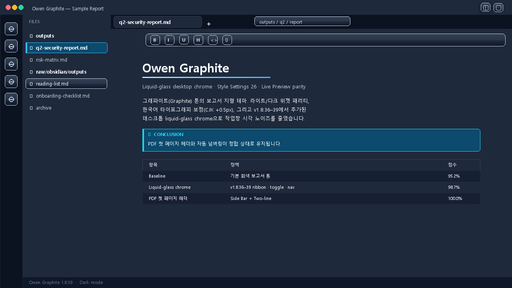
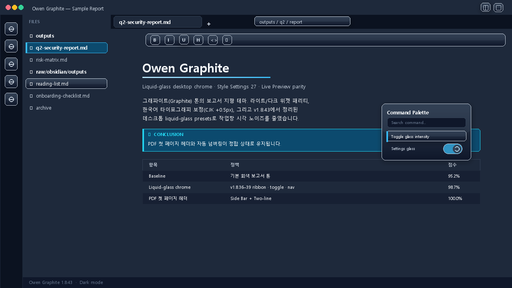
Release 1.8.43

Changed region(s): [[0.7188, 0.3438, 0.9375, 0.5625], [0.375, 0.375, 0.5938, 0.4375]]

diff --git a/theme.css b/theme.css
@@ -169,6 +169,28 @@ settings:
     type: class-toggle
     default: false
   -
+    id: ogd-glass-intensity
+    title: 데스크톱 Glass 강도
+    description: 데스크톱 UI chrome의 투명 유리/그림자 강도를 조정합니다. Reduced는 blur를 줄여 배터리와 저성능 환경에 적합합니다.
+    type: class-select
+    default: ogd-glass-standard
+    options:
+      -
+        label: Off
+        value: ogd-glass-off
+      -
+        label: Reduced
+        value: ogd-glass-reduced
+      -
+        label: Subtle
+        value: ogd-glass-subtle
+      -
+        label: Standard
+        value: ogd-glass-standard
+      -
+        label: Strong
+        value: ogd-glass-strong
+  -
     id: ogd-cjk-boost
     title: 한글/CJK 폰트 +0.5px 자동 보정
     type: class-toggle
@@ -6702,5 +6724,167 @@ body.ogd-report-mode .markdown-rendered > h2:first-of-type::after {
 
   body:not(.is-mobile).theme-dark .status-bar .status-bar-item-segment:hover {
     box-shadow: 0 4px 12px rgba(0, 0, 0, 0.24) !important;
+  }
+}
+
+/* v1.8.43 - User-selectable glass intensity, plugin polish, and print isolation. */
+@media (min-width: 701px) {
+  body:not(.is-mobile) {
+    --ogd-glass-filter: blur(18px) saturate(160%);
+    --ogd-glass-filter-soft: blur(12px) saturate(145%);
+    --ogd-glass-filter-control: blur(10px) saturate(135%);
+  }
+
+  body:not(.is-mobile).ogd-glass-off,
+  body:not(.is-mobile).ogd-glass-reduced {
+    --ogd-glass-filter: none;
+    --ogd-glass-filter-soft: none;
+    --ogd-glass-filter-control: none;
+  }
+
+  body:not(.is-mobile).ogd-glass-off {
+    --ogd-glass-bg: var(--background-primary) !important;
+    --ogd-glass-bg-strong: var(--background-primary) !important;
+    --ogd-glass-bg-hover: var(--background-modifier-hover) !important;
+    --ogd-glass-border: var(--background-modifier-border) !important;
+    --ogd-glass-border-hover: var(--background-modifier-border-hover) !important;
+    --ogd-glass-shadow: none !important;
+    --ogd-glass-shadow-hover: none !important;
+  }
+
+  body:not(.is-mobile).ogd-glass-reduced {
+    --ogd-glass-bg: linear-gradient(180deg, rgba(255, 255, 255, 0.92), rgba(248, 250, 252, 0.82)) !important;
+    --ogd-glass-bg-strong: linear-gradient(180deg, rgba(255, 255, 255, 0.96), rgba(248, 250, 252, 0.90)) !important;
+    --ogd-glass-bg-hover: linear-gradient(180deg, rgba(255, 255, 255, 0.98), rgba(241, 245, 249, 0.88)) !important;
+    --ogd-glass-shadow: 0 2px 8px rgba(15, 23, 42, 0.08) !important;
+    --ogd-glass-shadow-hover: 0 3px 10px rgba(15, 23, 42, 0.10) !important;
+  }
+
+  body:not(.is-mobile).ogd-glass-subtle {
+    --ogd-glass-filter: blur(10px) saturate(130%);
+    --ogd-glass-filter-soft: blur(8px) saturate(125%);
+    --ogd-glass-filter-control: blur(6px) saturate(120%);
+    --ogd-glass-bg: linear-gradient(180deg, rgba(255, 255, 255, 0.82), rgba(248, 250, 252, 0.62)) !important;
+    --ogd-glass-bg-strong: linear-gradient(180deg, rgba(255, 255, 255, 0.88), rgba(248, 250, 252, 0.72)) !important;
+    --ogd-glass-bg-hover: linear-gradient(180deg, rgba(255, 255, 255, 0.90), rgba(241, 245, 249, 0.68)) !important;
+    --ogd-glass-shadow: inset 0 1px 0 rgba(255, 255, 255, 0.78), 0 8px 20px rgba(15, 23, 42, 0.10) !important;
+    --ogd-glass-shadow-hover: inset 0 1px 0 rgba(255, 255, 255, 0.86), 0 4px 12px rgba(15, 23, 42, 0.10) !important;
+  }
+
+  body:not(.is-mobile).ogd-glass-strong {
+    --ogd-glass-filter: blur(24px) saturate(180%);
+    --ogd-glass-filter-soft: blur(16px) saturate(160%);
+    --ogd-glass-filter-control: blur(12px) saturate(145%);
+    --ogd-glass-bg: linear-gradient(180deg, rgba(255, 255, 255, 0.82), rgba(226, 232, 240, 0.46)) !important;
+    --ogd-glass-bg-strong: linear-gradient(180deg, rgba(255, 255, 255, 0.90), rgba(241, 245, 249, 0.56)) !important;
+    --ogd-glass-bg-hover: linear-gradient(180deg, rgba(255, 255, 255, 0.96), rgba(224, 242, 254, 0.58)) !important;
+    --ogd-glass-border: rgba(148, 163, 184, 0.30) !important;
+    --ogd-glass-border-hover: rgba(14, 165, 233, 0.34) !important;
+    --ogd-glass-shadow: inset 0 1px 0 rgba(255, 255, 255, 0.94), inset 0 -1px 0 rgba(148, 163, 184, 0.18), 0 18px 40px rgba(15, 23, 42, 0.18), 0 6px 16px rgba(15, 23, 42, 0.10) !important;
+    --ogd-glass-shadow-hover: inset 0 1px 0 rgba(255, 255, 255, 0.98), 0 8px 22px rgba(15, 23, 42, 0.16) !important;
+  }
+
+  body:not(.is-mobile).theme-dark.ogd-glass-reduced {
+    --ogd-glass-bg: linear-gradient(180deg, rgba(30, 41, 59, 0.86), rgba(15, 23, 42, 0.78)) !important;
+    --ogd-glass-bg-strong: linear-gradient(180deg, rgba(30, 41, 59, 0.92), rgba(15, 23, 42, 0.84)) !important;
+    --ogd-glass-bg-hover: linear-gradient(180deg, rgba(51, 65, 85, 0.84), rgba(30, 41, 59, 0.74)) !important;
+    --ogd-glass-shadow: 0 2px 8px rgba(0, 0, 0, 0.26) !important;
+    --ogd-glass-shadow-hover: 0 3px 10px rgba(0, 0, 0, 0.30) !important;
+  }
+
+  body:not(.is-mobile).theme-dark.ogd-glass-subtle {
+    --ogd-glass-bg: linear-gradient(180deg, rgba(30, 41, 59, 0.74), rgba(15, 23, 42, 0.62)) !important;
+    --ogd-glass-bg-strong: linear-gradient(180deg, rgba(30, 41, 59, 0.82), rgba(15, 23, 42, 0.70)) !important;
+    --ogd-glass-bg-hover: linear-gradient(180deg, rgba(51, 65, 85, 0.72), rgba(15, 23, 42, 0.54)) !important;
+    --ogd-glass-shadow: inset 0 1px 0 rgba(255, 255, 255, 0.07), 0 8px 20px rgba(0, 0, 0, 0.34) !important;
+    --ogd-glass-shadow-hover: inset 0 1px 0 rgba(255, 255, 255, 0.09), 0 4px 12px rgba(0, 0, 0, 0.28) !important;
+  }
+
+  body:not(.is-mobile).theme-dark.ogd-glass-strong {
+    --ogd-glass-bg: linear-gradient(180deg, rgba(30, 41, 59, 0.76), rgba(2, 6, 23, 0.54)) !important;
+    --ogd-glass-bg-strong: linear-gradient(180deg, rgba(51, 65, 85, 0.84), rgba(15, 23, 42, 0.62)) !important;
+    --ogd-glass-bg-hover: linear-gradient(180deg, rgba(51, 65, 85, 0.82), rgba(12, 74, 110, 0.40)) !important;
+    --ogd-glass-border: rgba(203, 213, 225, 0.22) !important;
+    --ogd-glass-border-hover: rgba(56, 189, 248, 0.30) !important;
+    --ogd-glass-shadow: inset 0 1px 0 rgba(255, 255, 255, 0.11), inset 0 -1px 0 rgba(0, 0, 0, 0.38), 0 18px 42px rgba(0, 0, 0, 0.52), 0 6px 16px rgba(0, 0, 0, 0.34) !important;
+    --ogd-glass-shadow-hover: inset 0 1px 0 rgba(255, 255, 255, 0.14), 0 8px 24px rgba(0, 0, 0, 0.38) !important;
+  }
+
+  body:not(.is-mobile) :is(.prompt, .modal, .popover.hover-popover, .notice, .notice-container .notice, .editingToolbarModalBar, .editingToolbarPopover, .editingToolbarPopoverItems, .editingToolbarSubmenu, .editingToolbarMenu) {
+    -webkit-backdrop-filter: var(--ogd-glass-filter) !important;
+    backdrop-filter: var(--ogd-glass-filter) !important;
+  }
+
+  body:not(.is-mobile) :is(.prompt-results .suggestion-item, .modal .suggestion-item, .popover.hover-popover .suggestion-item, .modal.mod-settings .setting-item, .metadata-container .metadata-property, .canvas-control-item, .canvas-card-menu .clickable-icon, .status-bar .status-bar-item-segment):is(:hover, :focus, :focus-within, :active, .is-selected, .selected, [aria-selected="true"]) {
+    -webkit-backdrop-filter: var(--ogd-glass-filter-soft) !important;
+    backdrop-filter: var(--ogd-glass-filter-soft) !important;
+  }
+
+  body:not(.is-mobile) .setting-item-control :is(input[type="text"], input[type="number"], input[type="search"], textarea, select, .dropdown, input[type="color"], .pickr .pcr-button),
+  body:not(.is-mobile) .checkbox-container {
+    -webkit-backdrop-filter: var(--ogd-glass-filter-control) !important;
+    backdrop-filter: var(--ogd-glass-filter-control) !important;
+  }
+
+  body:not(.is-mobile) .setting-item-control :is(input[type="color"], .pickr .pcr-button) {
+    background: var(--ogd-glass-bg-strong) !important;
+    border-color: var(--ogd-glass-border) !important;
+    box-shadow: 0 2px 7px rgba(15, 23, 42, 0.12) !important;
+    transition: border-color 160ms ease, box-shadow 160ms ease, transform 160ms ease !important;
+  }
+
+  body:not(.is-mobile) .setting-item-control :is(input[type="color"], .pickr .pcr-button):is(:hover, :focus-visible) {
+    border-color: var(--ogd-glass-border-hover) !important;
+    box-shadow: var(--ogd-glass-shadow-hover) !important;
+    transform: translateY(-1px) !important;
+  }
+
+  body:not(.is-mobile) .setting-item-control :is(button, input, textarea, select, .dropdown, .checkbox-container):disabled,
+  body:not(.is-mobile) .setting-item-control :is(button, input, textarea, select, .dropdown, .checkbox-container).is-disabled,
+  body:not(.is-mobile) .setting-item-control :is(button, input, textarea, select, .dropdown, .checkbox-container)[aria-disabled="true"] {
+    opacity: 0.54 !important;
+    filter: saturate(0.72) !important;
+    transform: none !important;
+    box-shadow: none !important;
+  }
+
+  body:not(.is-mobile) .setting-item-control button:is(.mod-cta, .mod-warning, .mod-destructive):active,
+  body:not(.is-mobile) .modal .setting-item-control button:is(.mod-cta, .mod-warning, .mod-destructive):active {
+    transform: translateY(0) scale(0.99) !important;
+    box-shadow: inset 0 1px 2px rgba(15, 23, 42, 0.20) !important;
+  }
+
+  body:not(.is-mobile) .prompt-input:focus,
+  body:not(.is-mobile) .modal .prompt-input:focus {
+    outline: 2px solid rgba(14, 165, 233, 0.24) !important;
+    outline-offset: 2px !important;
+  }
+
+  body:not(.is-mobile) .metadata-container .metadata-property-value:is(:hover, :focus-within) {
+    border-radius: 6px !important;
+    background: rgba(255, 255, 255, 0.42) !important;
+  }
+
+  body:not(.is-mobile).theme-dark .metadata-container .metadata-property-value:is(:hover, :focus-within) {
+    background: rgba(15, 23, 42, 0.34) !important;
+  }
+
+  body:not(.is-mobile).ogd-glass-off :is(.prompt, .modal, .popover.hover-popover, .notice, .notice-container .notice, .editingToolbarModalBar, .editingToolbarPopover, .editingToolbarPopoverItems, .editingToolbarSubmenu, .editingToolbarMenu),
+  body:not(.is-mobile).ogd-glass-off :is(.prompt-results .suggestion-item, .modal .suggestion-item, .popover.hover-popover .suggestion-item, .modal.mod-settings .setting-item, .metadata-container .metadata-property, .canvas-control-item, .canvas-card-menu .clickable-icon, .status-bar .status-bar-item-segment, .checkbox-container):is(:hover, :focus, :focus-within, :active, .is-selected, .selected, [aria-selected="true"]) {
+    -webkit-backdrop-filter: none !important;
+    backdrop-filter: none !important;
+  }
+}
+
+@media print {
+  body {
+    --ogd-glass-bg: transparent !important;
+    --ogd-glass-bg-strong: transparent !important;
+    --ogd-glass-bg-hover: transparent !important;
+    --ogd-glass-shadow: none !important;
+    --ogd-glass-shadow-hover: none !important;
+    --ogd-glass-filter: none !important;
+    --ogd-glass-filter-soft: none !important;
+    --ogd-glass-filter-control: none !important;
   }
 }

diff --git a/scripts/generate_screenshots.py b/scripts/generate_screenshots.py
@@ -1,9 +1,10 @@
 """
-Owen Graphite v1.8.39 marketing screenshot generator (pure Pillow).
+Owen Graphite v1.8.43 marketing screenshot generator (pure Pillow).
 
 Renders three 1280x720 PNG mock-ups (light / dark / report) showcasing
-v1.8.39 liquid-glass desktop chrome (ribbon icons, sidebar toggle hover,
-nav file hover lift, tab list, breadcrumb, callout, table). Then
+v1.8.43 liquid-glass desktop chrome (ribbon icons, sidebar toggle hover,
+nav file hover lift, tab list, breadcrumb, command palette, settings toggles,
+callout, table). Then
 downscales to 512x288 for the marketplace listing.
 
 Pure Pillow, no SVG. Uses Windows-installed Malgun Gothic for Korean
@@ -156,6 +157,20 @@ def rounded_glass(img, x, y, w, h, p, hovered=False, radius=6):
     img.paste(overlay, (x, y), hl)
 
 
+def toggle(img, x, y, p, enabled=True):
+    od = ImageDraw.Draw(img)
+    rounded_glass(img, x, y, 48, 26, p, hovered=False, radius=13)
+    if enabled:
+        od.rounded_rectangle((x, y, x + 47, y + 25), radius=13,
+                             fill=lerp(p["accent"], p["panel"], 0.28),
+                             outline=p["glass_border"], width=1)
+        cx = x + 34
+    else:
+        cx = x + 14
+    od.ellipse((cx - 10, y + 3, cx + 10, y + 23), fill=p["glass_top"], outline=p["border_strong"], width=1)
+    od.arc((cx - 6, y + 7, cx + 6, y + 19), start=210, end=510, fill=p["accent_dark"], width=2)
+
+
 def text(d, x, y, s, sz, color, weight="regular", serif=False):
     d.text((x, y), s, font=fonts(sz, weight=weight, serif=serif), fill=color)
 
@@ -262,15 +277,15 @@ def render_variant(variant):
         c = lerp(p["accent_dark"], p["accent"], i / rule_w)
         d.line((h1_x + i, rule_y, h1_x + i, rule_y + 2), fill=c)
 
-    sub = ("보고서 모드 · A3 가로 · 자동 넘버링 · 세리프 본문" if is_report
-           else "Liquid-glass desktop chrome · Style Settings 26 · Live Preview parity")
+        sub = ("보고서 모드 · A3 가로 · 자동 넘버링 · 세리프 본문" if is_report
+            else "Liquid-glass desktop chrome · Style Settings 27 · Live Preview parity")
     text(d, h1_x, rule_y + 14, sub, 13, p["text_muted"], serif=serif)
 
     body_y = rule_y + 50
     body_lines = [
         "그래파이트(Graphite) 톤의 보고서 지향 테마. 라이트/다크 위젯 패리티,",
-        "한국어 타이포그래피 보정(CJK +0.5px), 그리고 v1.8.36–39에서 추가된",
-        "데스크톱 liquid-glass chrome으로 작업창 시각 노이즈를 줄였습니다.",
+        "한국어 타이포그래피 보정(CJK +0.5px), 그리고 v1.8.43에서 정리된",
+        "데스크톱 liquid-glass presets로 작업창 시각 노이즈를 줄였습니다.",
     ]
     for i, line in enumerate(body_lines):
         text(d, h1_x, body_y + i * 22, line, 13, p["text"], serif=serif)
@@ -305,8 +320,21 @@ def render_variant(variant):
         for cx, val in zip(col_x, row):
             text(d, cx, ry + 6, val, 11, p["text"], serif=serif)
 
+    if not is_report:
+        px, py = h1_x + cw - 246, body_y + 18
+        rounded_glass(img, px, py, 224, 142, p, hovered=True, radius=10)
+        text(d, px + 14, py + 12, "Command Palette", 12, p["text"], weight="bold")
+        od.rounded_rectangle((px + 14, py + 34, px + 210, py + 58), radius=6,
+                             fill=p["panel_alt"], outline=p["border_strong"], width=1)
+        text(d, px + 24, py + 39, "Search command...", 10, p["text_dim"])
+        rounded_glass(img, px + 12, py + 68, 200, 26, p, hovered=True, radius=6)
+        od.rectangle((px + 12, py + 68, px + 15, py + 94), fill=p["accent"])
+        text(d, px + 24, py + 74, "Toggle glass intensity", 10, p["text"])
+        text(d, px + 24, py + 104, "Settings glass", 10, p["text_muted"])
+        toggle(img, px + 154, py + 99, p, enabled=True)
+
     od.rectangle((ribbon_w, H - 28, W, H), fill=p["panel_alt"], outline=p["border"])
-    text(d, ribbon_w + 16, H - 22, f"Owen Graphite 1.8.39  ·  {variant.title()} mode",
+    text(d, ribbon_w + 16, H - 22, f"Owen Graphite 1.8.43  ·  {variant.title()} mode",
          11, p["text_dim"])
 
     big_path = OUT_DIR / f"_big-{variant}.png"

diff --git a/README.md b/README.md
@@ -3,7 +3,7 @@
 [![GitHub release (latest by date)](https://img.shields.io/github/v/release/towishy/Owen-Graphite?style=flat-square)](https://github.com/towishy/Owen-Graphite/releases/latest)
 [![GitHub License](https://img.shields.io/github/license/towishy/Owen-Graphite?style=flat-square)](LICENSE)
 [![Obsidian Downloads](https://img.shields.io/badge/Obsidian-Compatible-7c3aed?style=flat-square&logo=obsidian)](https://obsidian.md)
-[![Style Settings](https://img.shields.io/badge/Style%20Settings-26%20options-0d9488?style=flat-square)](#style-settings-항목)
+[![Style Settings](https://img.shields.io/badge/Style%20Settings-27%20options-0d9488?style=flat-square)](#style-settings-항목)
 
 > **Obsidian 보고서 지향 라이트/다크 테마.**
 > 그래파이트(graphite) 기반의 차분한 색감, **A3 인쇄 친화 레이아웃**,
@@ -26,10 +26,10 @@
 | 분야 | 내용 |
 |------|------|
 | **타깃** | 보고서·기술 문서·위키 작성자 (특히 한국어) |
-| **차별점** | A3 인쇄 + 헤더 자동 넘버링 + 표지 + **PDF 첫 페이지 모던 헤더 (Side Bar + Two-line)** + **데스크톱 Liquid-glass chrome** + Style Settings 26종 + Live Preview/Reading parity |
+| **차별점** | A3 인쇄 + 헤더 자동 넘버링 + 표지 + **PDF 첫 페이지 모던 헤더 (Side Bar + Two-line)** + **데스크톱 Liquid-glass chrome presets** + Style Settings 27종 + Live Preview/Reading parity |
 | **Light & Dark** | ✅ 양쪽 모두 모든 위젯 패리티 보장 |
 | **모바일** | ✅ Desktop & Mobile |
-| **버전** | `1.8.42` (Obsidian 1.6.0+) |
+| **버전** | `1.8.43` (Obsidian 1.6.0+) |
 
 ---
 
@@ -88,7 +88,7 @@ git clone https://github.com/towishy/Owen-Graphite.git "Owen Graphite"
 ### 옵션 C — Style Settings 통합 (권장)
 
 [Style Settings](https://github.com/mgmeyers/obsidian-style-settings) 플러그인 설치 시
-사이드바에서 26개 옵션으로 즉시 모드 전환 가능.
+사이드바에서 27개 옵션으로 즉시 모드 전환 가능.
 주요 사용 흐름은 아래 [빠른 사용법](#-빠른-사용법)과 [고급 설정 요약](#-고급-설정-요약)을 참고하세요.
 
 ---
@@ -96,7 +96,7 @@ git clone https://github.com/towishy/Owen-Graphite.git "Owen Graphite"
 ## 🚀 빠른 사용법
 
 1. Obsidian → 설정 → 외관 → 테마에서 **Owen Graphite**를 선택합니다.
-2. [Style Settings](https://github.com/mgmeyers/obsidian-style-settings) 플러그인을 설치하면 26개 옵션을 UI에서 조정할 수 있습니다.
+2. [Style Settings](https://github.com/mgmeyers/obsidian-style-settings) 플러그인을 설치하면 27개 옵션을 UI에서 조정할 수 있습니다.
 3. 보고서 PDF가 필요하면 **보고서 모드**를 켜고, PDF Export에서 `A3` / `가로` / `15mm` 여백을 선택합니다.
 4. 첫 페이지 헤더가 필요하면 Style Settings에서 좌·우 라벨/본문/사이드바 색을 채웁니다. 비워둔 쪽은 출력되지 않습니다.
 
@@ -106,7 +106,7 @@ git clone https://github.com/towishy/Owen-Graphite.git "Owen Graphite"
 |------|-----------|------|
 | 문서 밀도 | 본문 폰트 크기, 줄간격, 최대 폭, 간격 프리셋 | 화면/인쇄 가독성 조정 |
 | 보고서 출력 | 보고서 모드, A3 페이지, 세리프 본문, 첫 줄 들여쓰기, 자동 넘버링 | PDF 보고서 레이아웃 구성 |
-| 색상/표현 | 액센트 컬러, 코드블록 테마, 시선 보호 모드, OS 다크 모드 | 개인 작업 환경 튜닝 |
+| 색상/표현 | 액센트 컬러, 코드블록 테마, 시선 보호 모드, OS 다크 모드, Glass 강도 | 개인 작업 환경 튜닝 |
 | PDF 첫 페이지 | 좌·우 라벨/본문/사이드바 색, 라벨 색 | 표지 상단 메타 정보 출력 |
 | 안정성 | 표 zebra, 표 모던 스타일, PDF 블록 분할 방지 | 긴 표·callout·이미지 출력 안정화 |
 
@@ -364,6 +364,7 @@ ruby scripts/validate_theme.rb
 
 전체 이력은 [CHANGELOG.md](CHANGELOG.md) 참고.
 
+- **v1.8.43** — Style Settings Glass 강도 프리셋(Off/Reduced/Subtle/Standard/Strong), 저성능용 Reduced glass, 컨트롤/Properties/Editing Toolbar glass polish, 스크린샷 갱신
 - **v1.8.42** — Floating UI와 Settings 컨트롤 전반에 liquid-glass 확장, 토글 glass track/thumb, 선택 suggestion 상태 세밀화, Settings 행 hover 외곽 박스 복구
 - **v1.8.41** — Editing Toolbar 좌측 간격 보정, 프레임 조절바 hover 표시 방식, workspace divider/파일 탐색기 스크롤바 라인 정리
 - **v1.8.40** — 검색 옵션 suggestion popover hover/click 상태에 liquid-glass + 그림자 효과 적용

diff --git a/screenshots/README.md b/screenshots/README.md
@@ -4,7 +4,7 @@ Owen Graphite 테마의 마켓플레이스 등록용 스크린샷.
 
 | 파일 | 크기 | 모드 | 내용 |
 |------|------|------|------|
-| `light.png` | 512×288 (16:9) | Light | v1.8.42 기준: Liquid-glass ribbon·toggle hover·nav active·breadcrumb·editing toolbar·search options·floating UI·callout·table |
+| `light.png` | 512×288 (16:9) | Light | v1.8.43 기준: Liquid-glass ribbon·toggle hover·nav active·breadcrumb·editing toolbar·command palette·floating UI·callout·table |
 | `dark.png`  | 512×288 (16:9) | Dark | 동일 레이아웃 다크 모드, slate gradient + cyan accent |
 | `report.png`| 512×288 (16:9) | Report | 보고서 모드 (자동 넘버링 + Side Bar 헤더 + serif 본문) |
 | `snippet-design-8-improvements-preview.png` | 3096×3586 | Concept | Gray override snippet 8개 구조 개선 preview |
@@ -14,7 +14,7 @@ Owen Graphite 테마의 마켓플레이스 등록용 스크린샷.
 
 ## 재생성 방법
 
-v1.8.42 기준 mock-up 이미지는 Pillow로 직접 렌더링합니다. 한글은 Windows 기본 설치 Malgun Gothic 사용.
+v1.8.43 기준 mock-up 이미지는 Pillow로 직접 렌더링합니다. 한글은 Windows 기본 설치 Malgun Gothic 사용.
 
 ```bash
 python -m pip install pillow

diff --git a/CHANGELOG.md b/CHANGELOG.md
@@ -4,6 +4,18 @@ All notable changes to **Owen Graphite** are recorded here.
 The format is based on [Keep a Changelog](https://keepachangelog.com/en/1.1.0/) and
 this project adheres to [Semantic Versioning](https://semver.org/spec/v2.0.0.html).
 
+## [1.8.43] — 2026-04-27
+
+### Added
+- Style Settings glass intensity preset: Off, Reduced, Subtle, Standard, and Strong for desktop liquid-glass chrome.
+- Reduced glass mode disables blur while keeping restrained surface contrast and light shadows for low-power or battery-focused environments.
+- Additional control polish for color pickers, disabled controls, CTA/warning/destructive pressed states, command palette focus rings, and Properties value focus rows.
+
+### Changed
+- Glass surfaces now share preset-driven filter variables so prompts, modals, hover popovers, settings controls, Canvas controls, status bar segments, and Editing Toolbar plugin surfaces can scale together.
+- Print output explicitly neutralizes glass variables to keep report/PDF rendering isolated from desktop UI effects.
+- Marketplace screenshots were regenerated to show v1.8.43 command palette, glass toggles, and the new preset language.
+
 ## [1.8.42] — 2026-04-27
 
 ### Added
